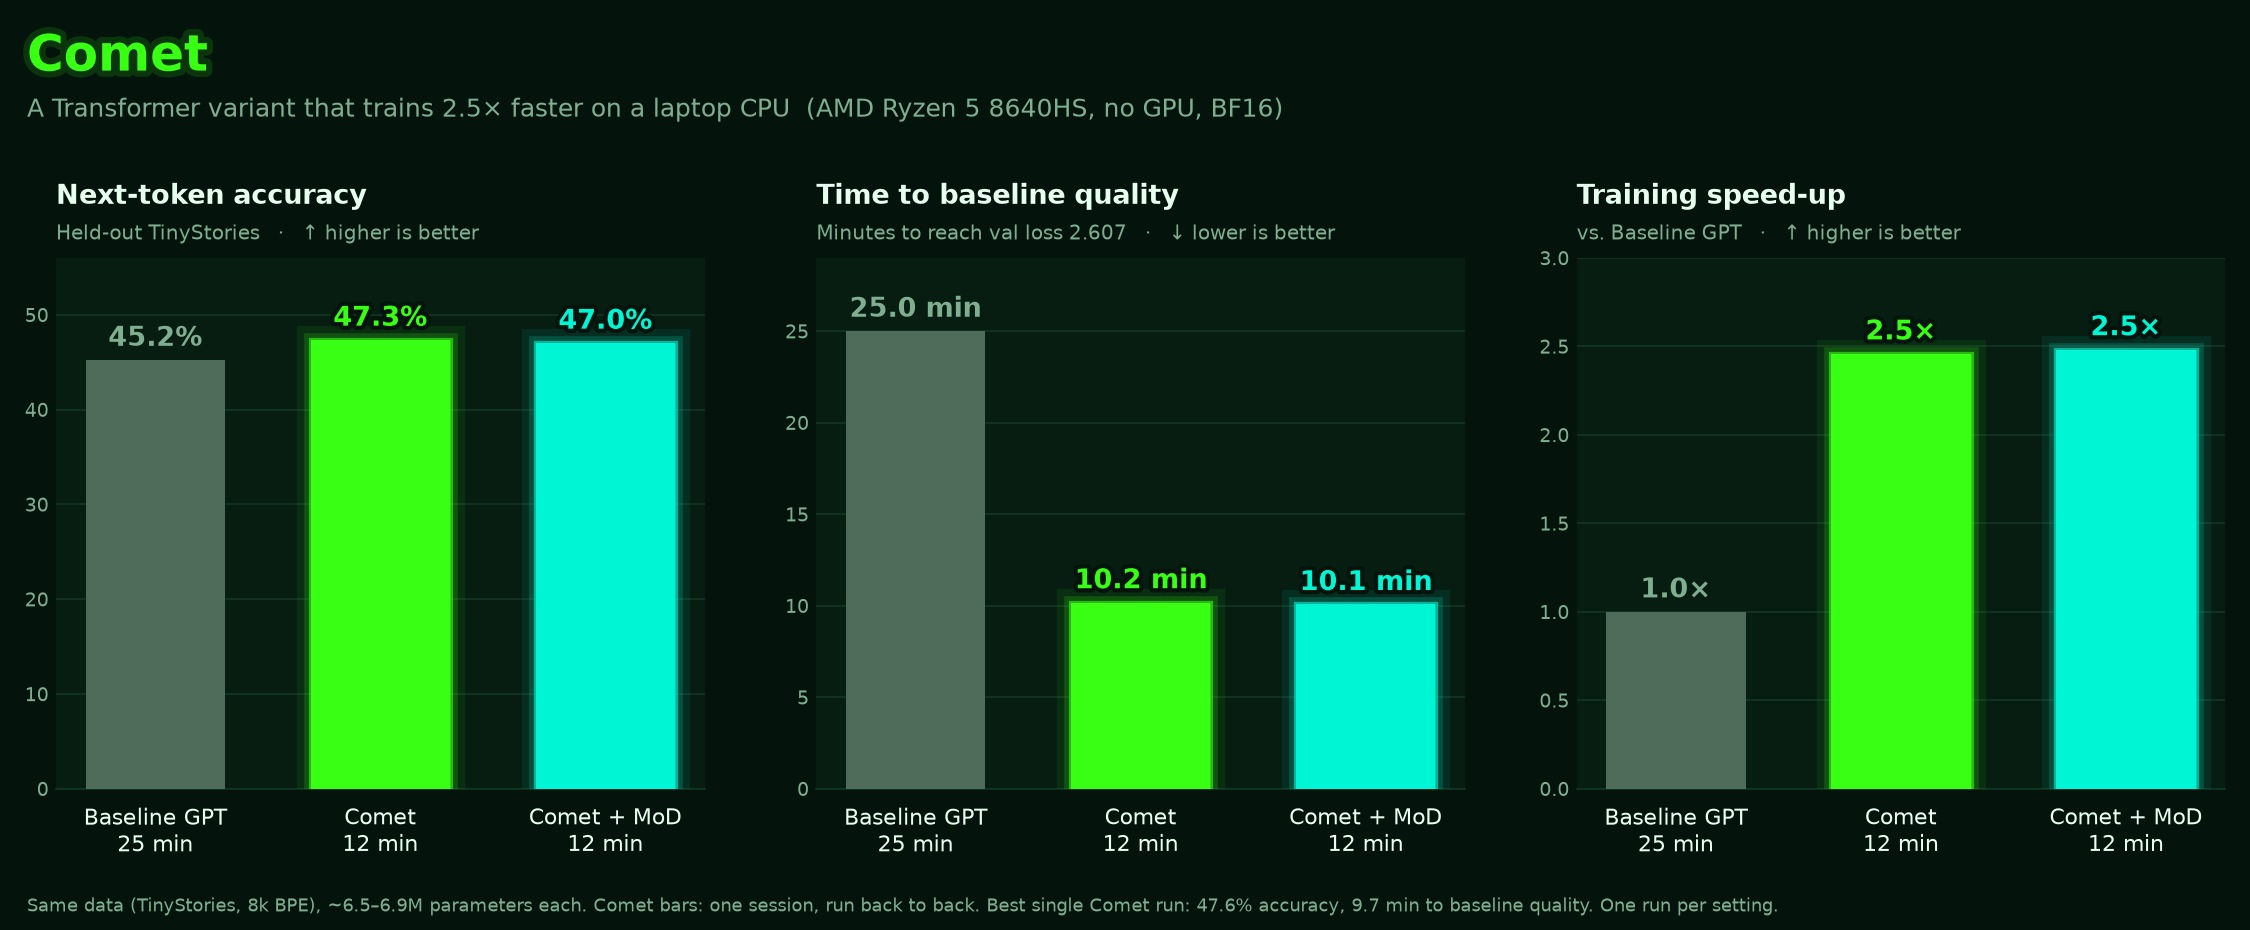
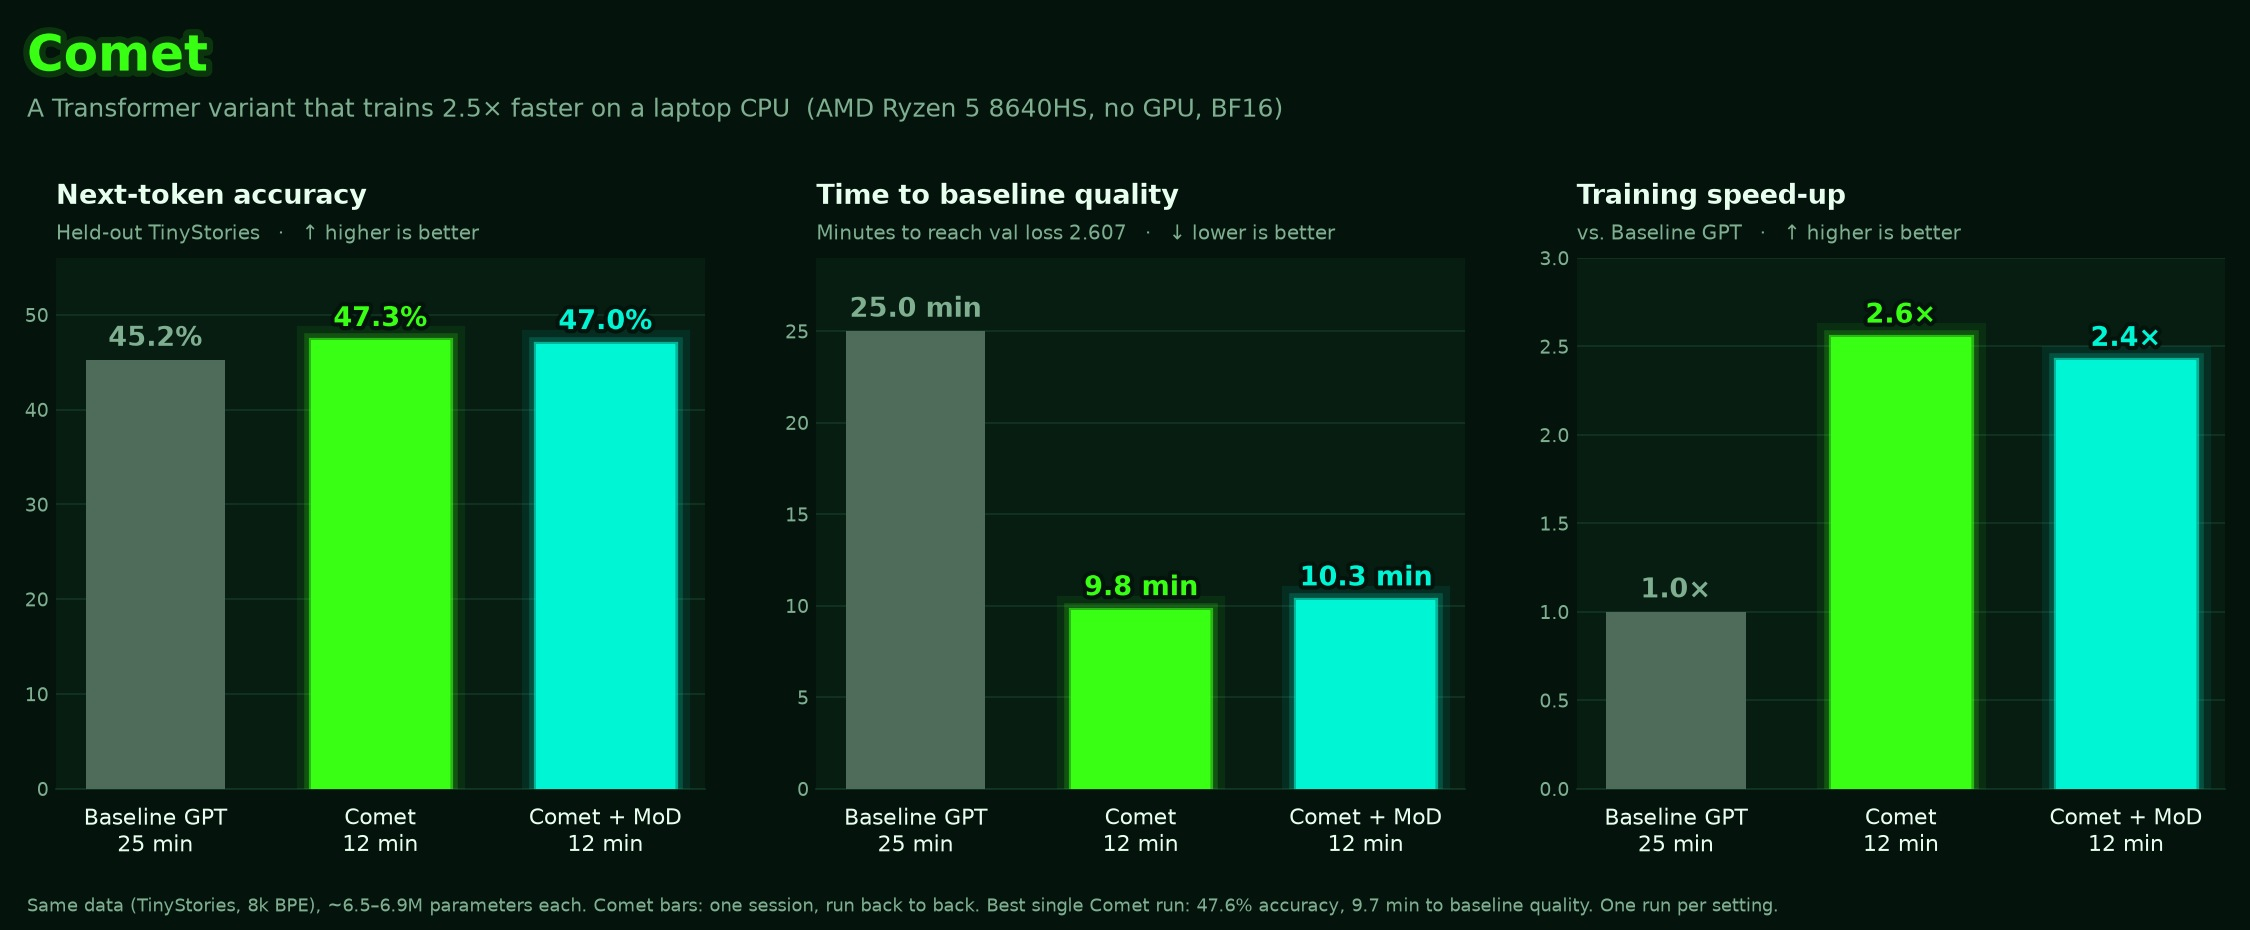
12-min race after MoD RAM fix: dense 2.441 beats MoD 2.475; RAM 1.49 vs 2.36 GB
Charts and README now use the new same-session race. MoD stays off by default.

Changed region(s): [[0.8089, 0.3118, 0.9956, 0.4054], [0.4667, 0.5925, 0.6533, 0.6548], [0.2489, 0.343, 0.28, 0.3742]]

diff --git a/charts.py b/charts.py
@@ -80,13 +80,13 @@ def bars(ax, labels, values, colors, fmt, title, subtitle, ymax=None, better="hi
 
 def headline():
     base = summary("baseline_d256_l6")
-    dense, mod = summary("race12_dense"), summary("race12_mod")
+    dense, mod = summary("race12s2_dense"), summary("race12s2_mod")
     target = base["final_val_loss"]
     labels = ["Baseline GPT\n25 min", "Comet\n12 min", "Comet + MoD\n12 min"]
     colors = [GRAY, COMET, COMET_LIGHT]
 
     acc = [base["final_val_acc"] * 100, dense["final_val_acc"] * 100, mod["final_val_acc"] * 100]
-    t = [base["minutes"], time_to("race12_dense", target), time_to("race12_mod", target)]
+    t = [base["minutes"], time_to("race12s2_dense", target), time_to("race12s2_mod", target)]
     speed = [base["minutes"] / x for x in t]
 
     fig, axs = plt.subplots(1, 3, figsize=(15, 6.2), dpi=150)

diff --git a/results/mod.md b/results/mod.md
@@ -67,3 +67,18 @@ The fragmentation was also slowing MoD down; with the fix it's faster than befor
 | **Comet + MoD (bucket 64)** | **3.114** | **39.0%** | **4,970 (+9%)** | 1,391 MB (+1%) |
 
 **Result:** MoD no longer works against Goal 2. It now matches dense on RAM, stays slightly ahead on loss at 3 minutes, and is faster. In this real-data run the speed gain was +9%; the clean benchmark showed +36%. Real data plus eval pauses narrow the gap, and the laptop's heat varies, so the true gain is somewhere in between. Next: a 12-minute race to see whether the lead now holds to the finish.
+
+### 12-minute race after the fix (same session, `race12s2_*`)
+
+| Model | Final val loss | Accuracy | Tokens/sec | Tokens seen | Reached 2.607 at | Peak RAM |
+|---|---|---|---|---|---|---|
+| **Dense Comet** | **2.441** | **47.3%** | 4,658 | 3.35M | **9.8 min (2.55×)** | 1.40 GB |
+| Comet + MoD (bucket 64) | 2.475 | 47.0% | 5,169 (+11%) | 3.72M | 10.3 min | 1.49 GB |
+| *Earlier race: MoD, exact sizes* | *2.458* | *47.0%* | *5,606 (+24% vs its dense)* | *4.04M* | *10.1 min* | *2.36 GB* |
+
+- **RAM is fixed for real:** 1.49 GB vs 2.36 GB before, within 6% of dense over a full 12-minute run.
+- **But dense wins the race by 0.034.** MoD led only until minute 3; from minute 4 on it trailed by ~0.05 and never caught up.
+- **The bucket costs speed in real training:** padding up to the next multiple of 64 means MoD layers process more tokens than they select. Its speed-up fell from +24% to +11%, which is no longer enough to make up for each token learning less.
+- The clean benchmark (`membench`) showed bucketed MoD as *faster*, because its random-token routing and lack of eval pauses differ from real training. Lesson: confirm speed claims on real 12-minute runs.
+
+**Decision:** keep the RAM fix, keep MoD **off by default**. MoD is not a lever toward the 5× goal at this model size. Possible later retry: bucket 16 or 32 (less padding, still few shapes) at longer contexts, where skipped attention work is worth more.

diff --git a/NEXT.md b/NEXT.md
@@ -12,7 +12,7 @@ Read this first tomorrow. Full detail lives in [plan.md](plan.md) and the `resul
 | Phase 3 Comet v1 | ✅ **Reaches baseline quality in ~10 min (2.5×)**; 12 min → 2.42–2.45, 47.3–47.6% |
 | EMOE | ✅ built + tuned (91% of dense speed, 2.6× params). ❌ doesn't beat dense in 3 min |
 | Multi-token prediction | ✅ built (full + light). ❌ doesn't beat dense in 3 min |
-| Mixture of Depths | ✅ built (causal, leak-free). 🟰 ties dense at 12 min, +24% tokens/sec |
+| Mixture of Depths | ✅ built, RAM fixed (2026-11-08: 1.49 GB vs 2.36). ❌ loses at 12 min (2.475 vs 2.441), +11% tokens/sec. Off by default |
 | Looped blocks + adaptive depth | ⏳ not started |
 | Reusable package (Phase 11) | ⏳ not started |
 | Save to global CLAUDE.md (Phase 12) | ⏳ after the architecture is final |
@@ -26,7 +26,7 @@ Charts: [results/benchmark.jpg](results/benchmark.jpg) (headline bars), [results
 2. **More coherent stories** in the same 10–15 minutes, measured with a new coherence score, not only val loss.
 3. **Reusable training kit** (Phase 11): the whole training setup, usable on any text with one command.
 
-Order: MoD memory fix → 3-minute A/Bs of speed and learning-per-token levers → coherence score → training kit. Details in plan.md (Goals 1, 4, 5).
+Order: ~~MoD memory fix~~ (done; MoD still loses at 12 min, so it's not a 5× lever) → 3-minute A/Bs of speed and learning-per-token levers → coherence score → training kit. Details in plan.md (Goals 1, 4, 5).
 
 ## What Comet is (settled)
 

diff --git a/README.md b/README.md
@@ -9,7 +9,7 @@ A faster-to-train Transformer variant, built and benchmarked on a laptop CPU (AM
 | Model | Train time | Final val loss | Next-token accuracy | Time to reach 2.607 |
 |---|---|---|---|---|
 | Baseline GPT | 25 min | 2.607 | 45.2% | 25.0 min |
-| **Comet** (same-session run) | **12 min** | **2.453** | **47.3%** | **10.2 min (2.5×)** |
+| **Comet** (same-session run) | **12 min** | **2.441** | **47.3%** | **9.8 min (2.55×)** |
 | Comet (best run) | 12 min | 2.420 | 47.6% | 9.7 min (2.6×) |
 
 Same data (TinyStories), same tokenizer, same size (~6.5–6.9M parameters), same laptop.
@@ -32,7 +32,7 @@ Full numbers: [results/benchmark.md](results/benchmark.md) · details: [results/
 |---|---|---|---|
 | **EMOE** (Efficient Mixture of Experts) | `--set emoe=true` | 3.20 vs 3.115 | 2.6× the parameters at the same compute; 91% of dense speed. [results/emoe.md](results/emoe.md) |
 | **Multi-token prediction** | `--set mtp_depth=1` | 3.17 vs 3.115 | Light version shown. [results/mtp.md](results/mtp.md) |
-| **Mixture of Depths** | `--set mod=true` | 3.106 vs 3.115 | 12-min race: tie (2.458 vs 2.453), +24% tokens/sec. [results/mod.md](results/mod.md) |
+| **Mixture of Depths** | `--set mod=true` | 3.106 vs 3.115 | 12-min race: loses (2.475 vs 2.441), +11% tokens/sec; RAM fixed to dense level (1.49 vs 2.36 GB). [results/mod.md](results/mod.md) |
 
 Coming next (see [plan.md](plan.md)): parameter reuse (looped blocks), adaptive loop depth, reusable package, research paper.
 

diff --git a/results/benchmark.md b/results/benchmark.md
@@ -5,5 +5,5 @@
 | Model | Train time | Final val loss | Time to reach baseline's final loss | Tokens/sec | Tokens seen | Params (total / active) | Peak RAM |
 |---|---|---|---|---|---|---|---|
 | Baseline GPT (25 min) | 25 min | **2.607** | 25.0 min | 6,064 | 9.1M | 6.89M / 6.89M | 1,420 MB |
-| Comet (12 min) | 12 min | **2.453** | 10.2 min | 4,536 | 3.3M | 6.52M / 6.52M | 1,397 MB |
-| Comet + MoD (12 min) | 12 min | **2.458** | 10.1 min | 5,606 | 4.0M | 6.53M / 6.53M | 2,361 MB |
+| Comet (12 min) | 12 min | **2.441** | 9.8 min | 4,658 | 3.4M | 6.52M / 6.52M | 1,403 MB |
+| Comet + MoD (12 min) | 12 min | **2.475** | 10.3 min | 5,169 | 3.7M | 6.53M / 6.53M | 1,485 MB |
